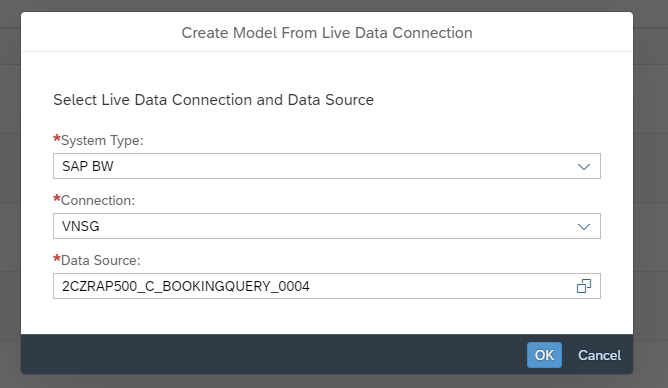
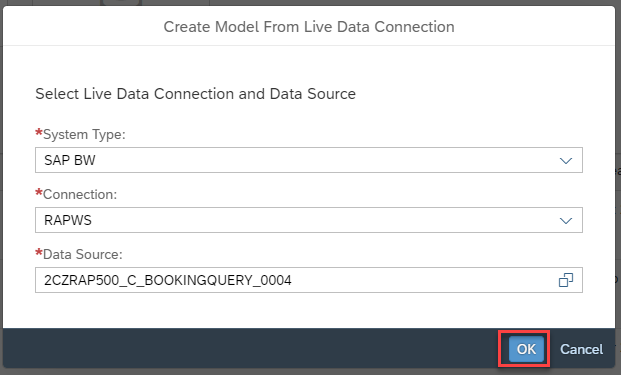
Add files via upload

Changed region(s): [[0.0, 0.0, 1.0, 0.9973]]

diff --git a/rap5xx/rap500/exercises/ex3/README.md b/rap5xx/rap500/exercises/ex3/README.md
@@ -66,9 +66,9 @@
 
   ![system type](images/2040.png)
   
-4. Choose **VNSG** as **Connection** and login with your username and password that you use in the SAP BTP ABAP environment system in the second popup.
+4. Choose **RAPWS** as **Connection** and login with your username and password that you use in the SAP BTP ABAP environment system in the second popup.
 
-   > The connection **VNSG** has been prepared beforehand. It uses a *communication arrangement* that has been created in the SAP BTP ABAP enviroment. The connection type is a *direct connection* that uses *SAML based Single Sign On*. So when using this connection the user that is currently logged on to SAC will be prompted to authenticate to get access to the SAP BTP ABAP environment system that provides the analytical service.
+   > The connection **RAPWS** has been prepared beforehand. It uses a *communication arrangement* that has been created in the SAP BTP ABAP enviroment. The connection type is a *direct connection* that uses *SAML based Single Sign On*. So when using this connection the user that is currently logged on to SAC will be prompted to authenticate to get access to the SAP BTP ABAP environment system that provides the analytical service.
 
   ![connection](images/2050.png)
   
